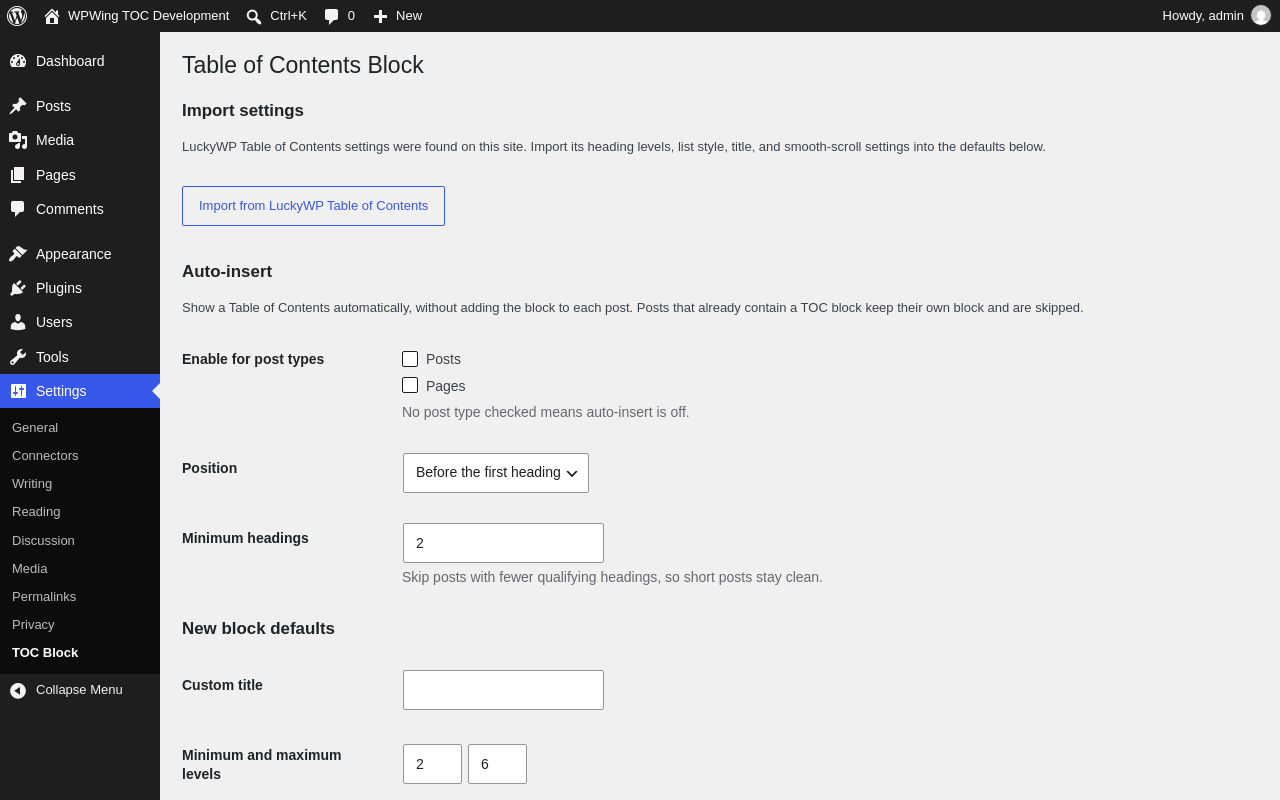
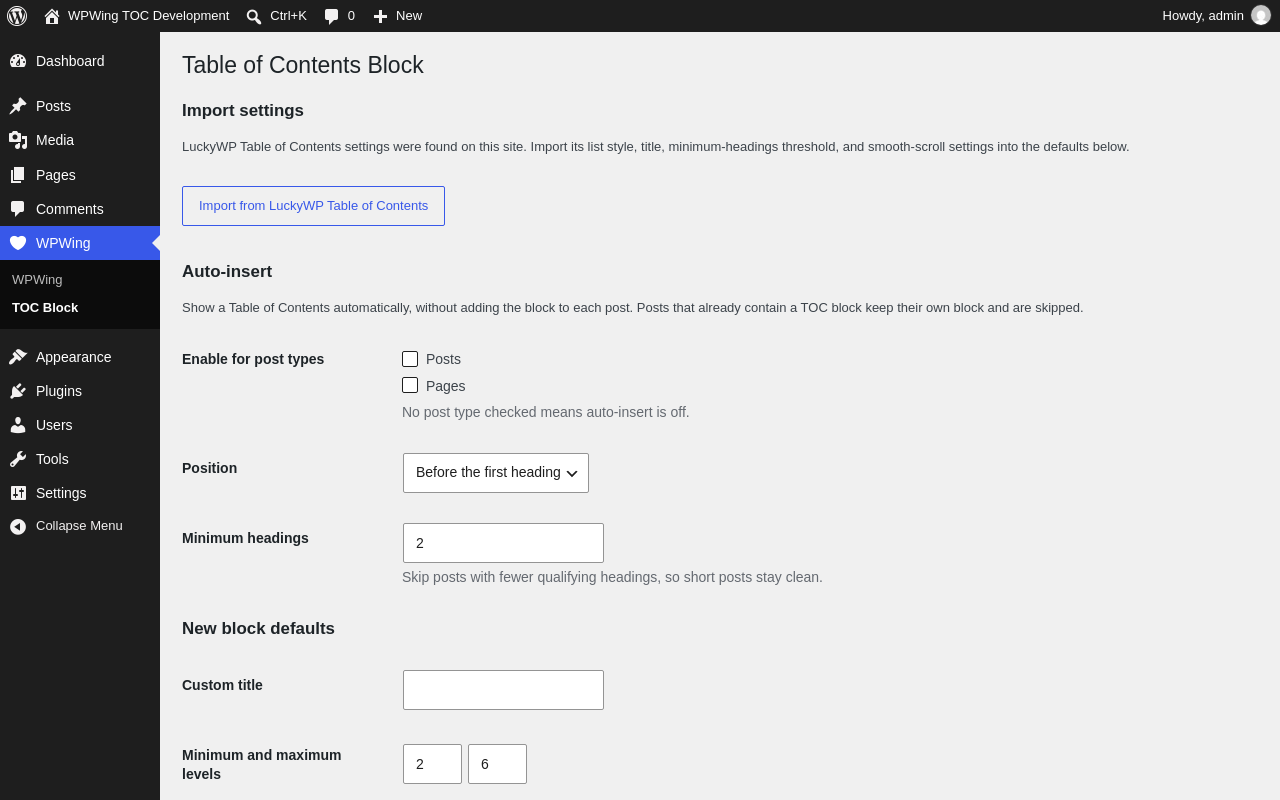
Regenerate settings screenshots for the new WPWing menu (part 5)
screenshot-7 now shows the branded "WPWing" (heart icon) sidebar menu
with "TOC Block" nested under it instead of the old Settings > TOC
Block location.

Also fixes on-page copy caught while reviewing the regenerated
screenshot-8: the "Import settings" description still claimed
LuckyWP's "heading levels" get imported, missed during the earlier
pre-release hardening pass that dropped that mapping. Now matches
the readme.txt/FAQ wording.

diff --git a/wpwing-table-of-contents-block.php b/wpwing-table-of-contents-block.php
@@ -322,7 +322,7 @@ function wpwing_toc_render_settings_page() {
 		<?php endif; ?>
 		<?php if ( false !== wpwing_toc_get_luckywp_settings() ) : ?>
 			<h2><?php esc_html_e( 'Import settings', 'wpwing-table-of-contents-block' ); ?></h2>
-			<p><?php esc_html_e( 'LuckyWP Table of Contents settings were found on this site. Import its heading levels, list style, title, and smooth-scroll settings into the defaults below.', 'wpwing-table-of-contents-block' ); ?></p>
+			<p><?php esc_html_e( 'LuckyWP Table of Contents settings were found on this site. Import its list style, title, minimum-headings threshold, and smooth-scroll settings into the defaults below.', 'wpwing-table-of-contents-block' ); ?></p>
 			<form method="post" action="<?php echo esc_url( admin_url( 'admin-post.php' ) ); ?>">
 				<?php wp_nonce_field( 'wpwing_toc_import_luckywp' ); ?>
 				<input type="hidden" name="action" value="wpwing_toc_import_luckywp" />
